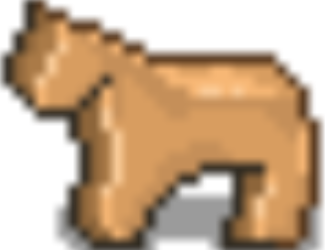
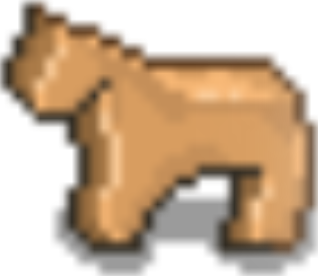
h

diff --git a/src/core/Game.java b/src/core/Game.java
@@ -180,7 +180,7 @@ public class Game extends JPanel implements MouseListener {
 		furniture.add(new Furniture("Rug", 8, 360, 393, 273));
 		furniture.add(new Furniture("Bed", 92, 216, 228, 228));
 		furniture.add(new Furniture("CushionOR", 150, 340, 47, 40));
-		furniture.add(new Furniture("Horse", 60, 400, 325, 250));
+		furniture.add(new Furniture("HorseR", 60, 400, 318, 276));
 //		furniture.add(new Furniture("CushionO.png", 92, 216, 228, 228));
 //		furniture.add(new Furniture("CushionR.png", 92, 216, 228, 228));
 //		furniture.add(new Furniture("CUshionY.png", 92, 216, 228, 228));
